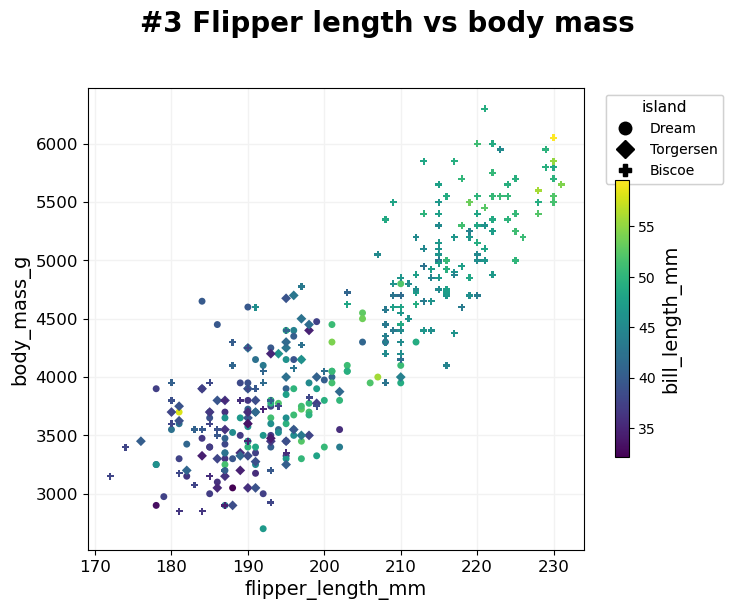
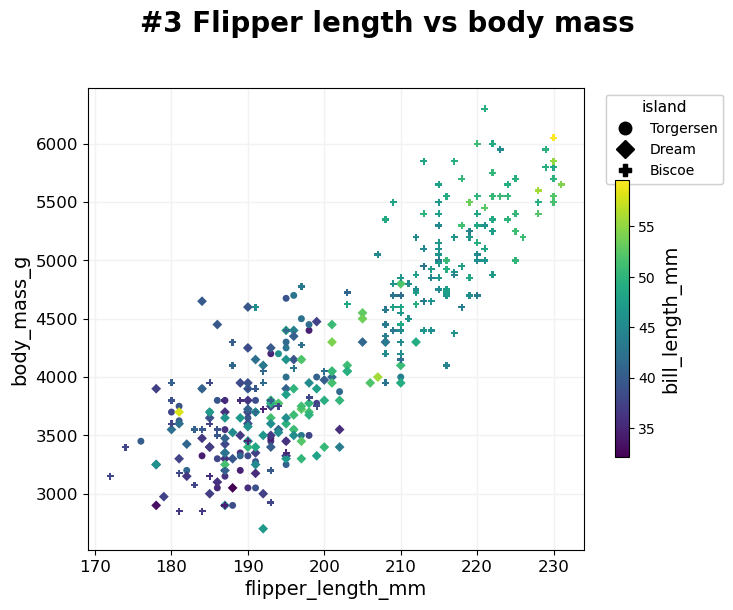
make correlation type in multi_mod_plot flexible

diff --git a/src/BasicPlotter.py b/src/BasicPlotter.py
@@ -521,7 +521,7 @@ def basic_pie(plot_df, title='', palette=None, numerate=True, legend_perc=True, 
 
 def multi_mod_plot(plot_df, score_cols, colour_col=None, marker_col=None, output_path='', diagonal=False, title=None,
                    colour_order=None, marker_order=None, line_plot=False, alpha=0.7, xsize=8, ysize=6, palette=None,
-                   xlim=None, ylim=None, msize=30, vlines=[], hlines=[], add_spear=False, na_colour='black', grid=True,
+                   xlim=None, ylim=None, msize=30, vlines=[], hlines=[], add_corr=False, na_colour='black', grid=True,
                    label_dots=None, font_s=14, adjust_labels=True, formats=['pdf']):
     """
     Scatterplot that compares two scores. For each entry in plot_df plot one dot with [x,y] based on score_col and
@@ -534,7 +534,7 @@ def multi_mod_plot(plot_df, score_cols, colour_col=None, marker_col=None, output
         hlines: Plot horizontal dashed grey lines at all positions listed in hlines.
         vlines: Same as hlines but vertical.
         diagonal: Whether to add a line on the diagonal.
-        add_spear: CARE not properly tested. Whether to add the spearman correlation coefficient between the score_cols to the title.
+        add_corr: Set to one of {'spearman', 'pearson', 'kendall'} to get the respective correlation coefficient added to the title and returned from the function. NaNs are omitted.
         na_colour: How to colour dots where the colour_col is NA.
         label_dots: A pair of columns [do_label, label_col] with boolean do_label telling which entries should get a
             text label within the plot, and label_col giving the string of the label.
@@ -572,7 +572,6 @@ def multi_mod_plot(plot_df, score_cols, colour_col=None, marker_col=None, output
             else:
                 cmap = cm.get_cmap('viridis' if not palette else palette)
                 norm = plt.Normalize(plot_df[colour_col].min(), plot_df[colour_col].max())
-
 
     def give_colour(entry):
         """Takes the entry that is supposed to be plotted, and checks whether we have categorical colours, or numerical
@@ -654,9 +653,22 @@ def multi_mod_plot(plot_df, score_cols, colour_col=None, marker_col=None, output
         plt.plot([x[0] for x in line_plot], [y[1] for y in line_plot], linestyle='-', color='grey', zorder=12)
     if title:
         plt.suptitle(title, fontsize=font_s+6, fontweight='bold', y=1.01)
-    if add_spear:
-        spear_r, pval = scipy.stats.spearmanr(a=[x[0] for x in main_list], b=[x[1] for x in main_list])
-        plt.title('spear_r='+str(round(spear_r, 3)), fontsize=font_s+4)
+
+    if add_corr:
+        if add_corr == 'spearman':
+            corr_r, pval = scipy.stats.spearmanr(a=[x[0] for x in main_list], b=[x[1] for x in main_list], nan_policy='omit')
+        elif add_corr == 'pearson':
+            illegal_vals = [np.inf, np.nan, -np.inf, None]
+            nan_idx = [i for i, x in enumerate(main_list) if x[0] in illegal_vals or x[1] in illegal_vals or pd.isna(x[0]) or pd.isna(x[1])]
+            corr_r, pval = scipy.stats.pearsonr([x[0] for i, x in enumerate(main_list) if i not in nan_idx],
+                                                [x[1] for i, x in enumerate(main_list) if i not in nan_idx])
+        elif add_corr == 'kendall':
+            corr_r, pval = scipy.stats.kendalltau([x[0] for x in main_list], [x[1] for x in main_list], nan_policy='omit')
+        else:
+            print("WARNING: correlation type not recognized: "+add_corr)
+            corr_r = None
+        if corr_r is not None:
+            plt.title(add_corr+'_coeff='+str(round(corr_r, 3)), fontsize=font_s+4)
 
     if type(formats) != list:
         formats = [formats]
@@ -665,8 +677,8 @@ def multi_mod_plot(plot_df, score_cols, colour_col=None, marker_col=None, output
                   bbox_inches='tight', format=form)
     plt.close()
 
-    if add_spear:
-        return spear_r
+    if add_corr:
+        return corr_r
 
 
 def basic_venn(input_sets, plot_path, blob_colours=ColoursAndShapes.tol_highcontrast, title='',